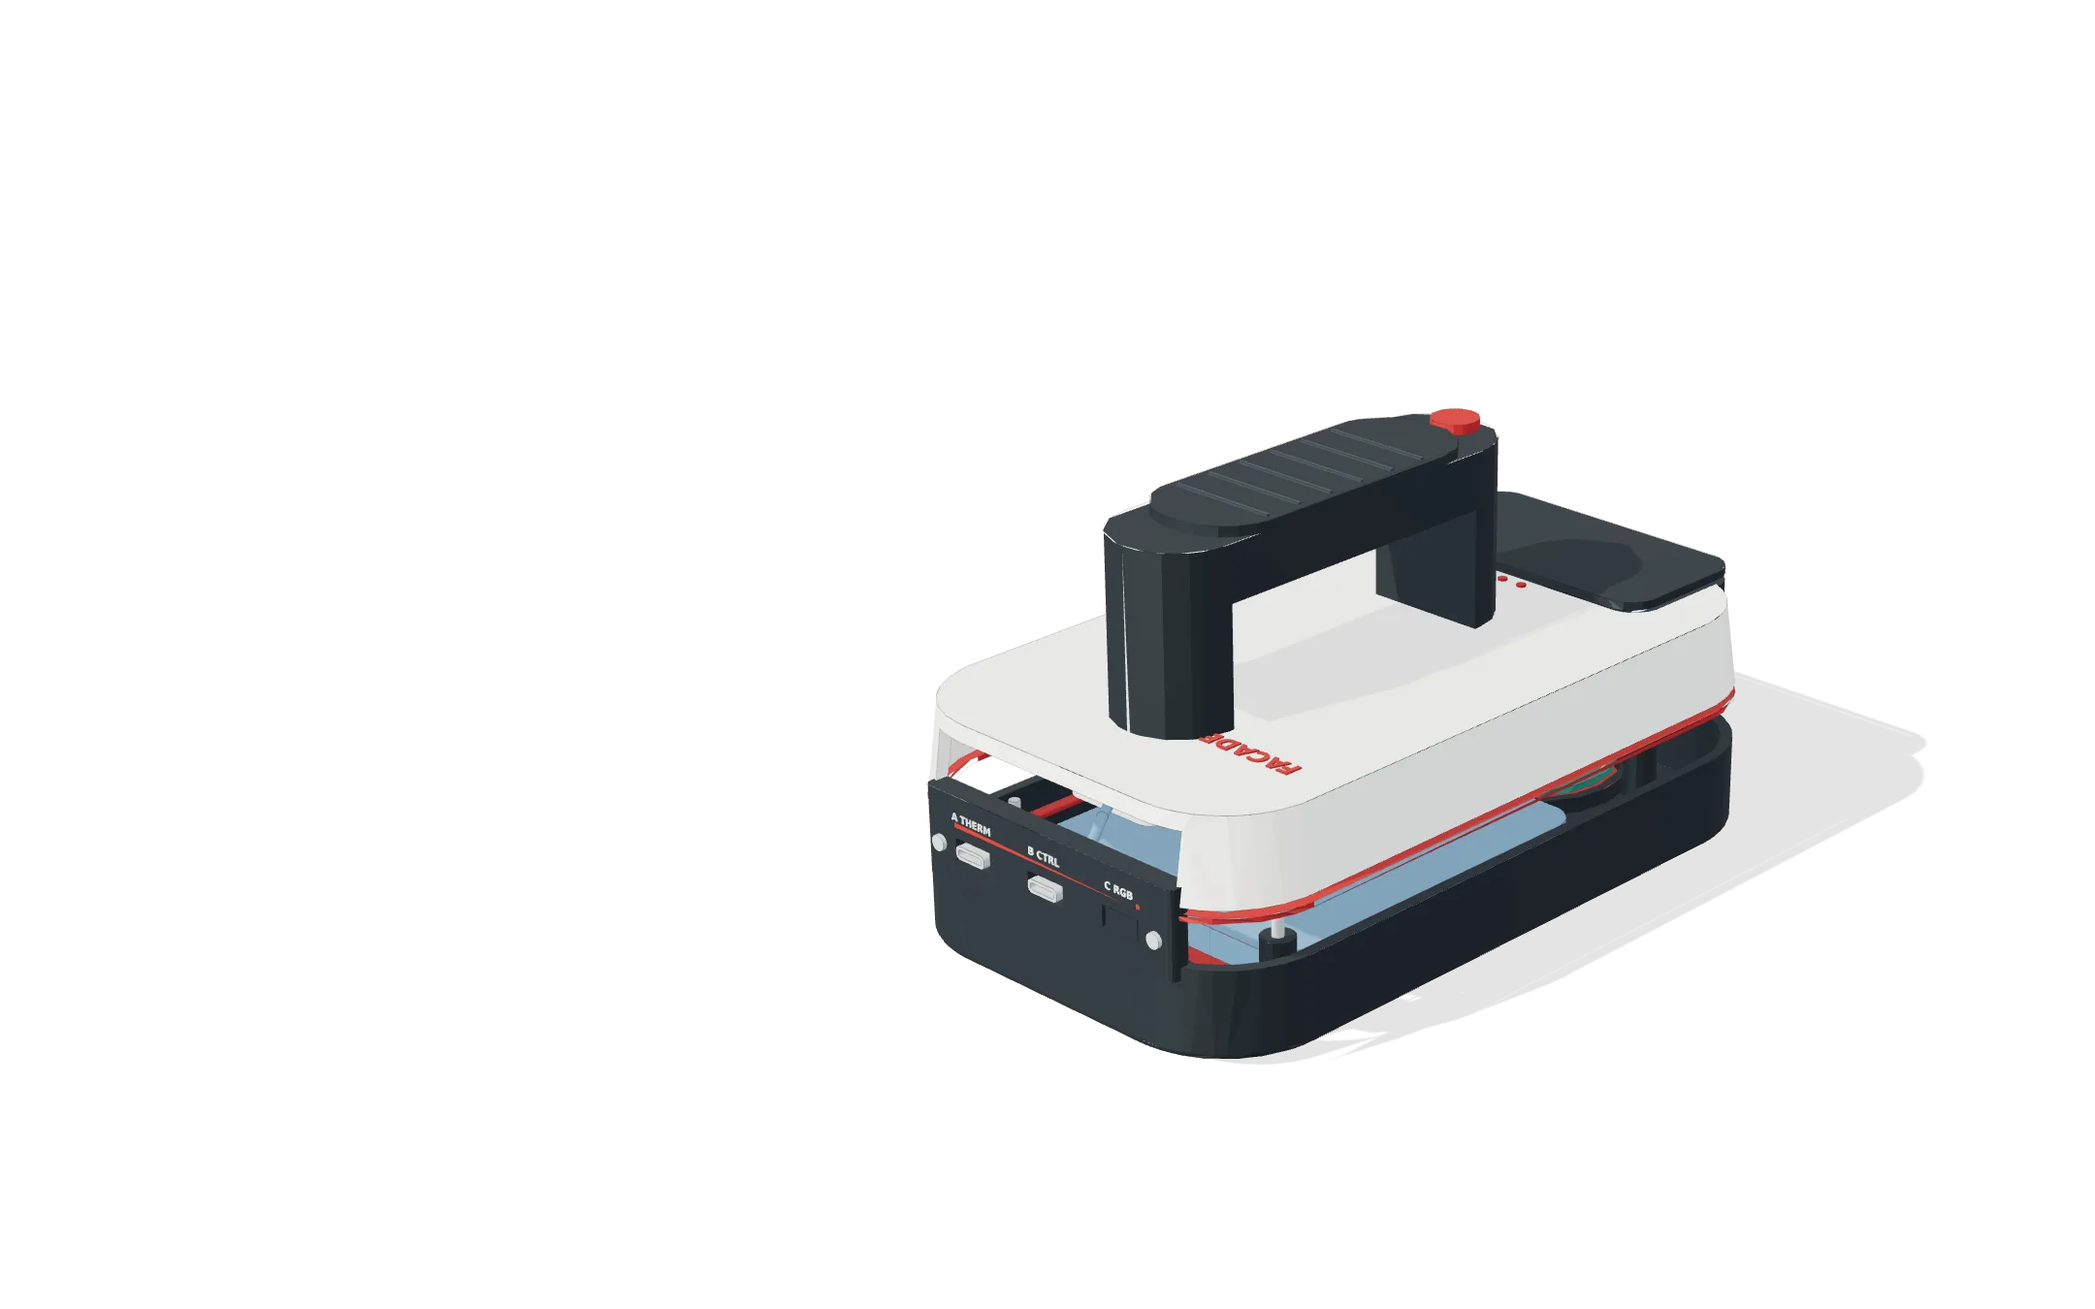
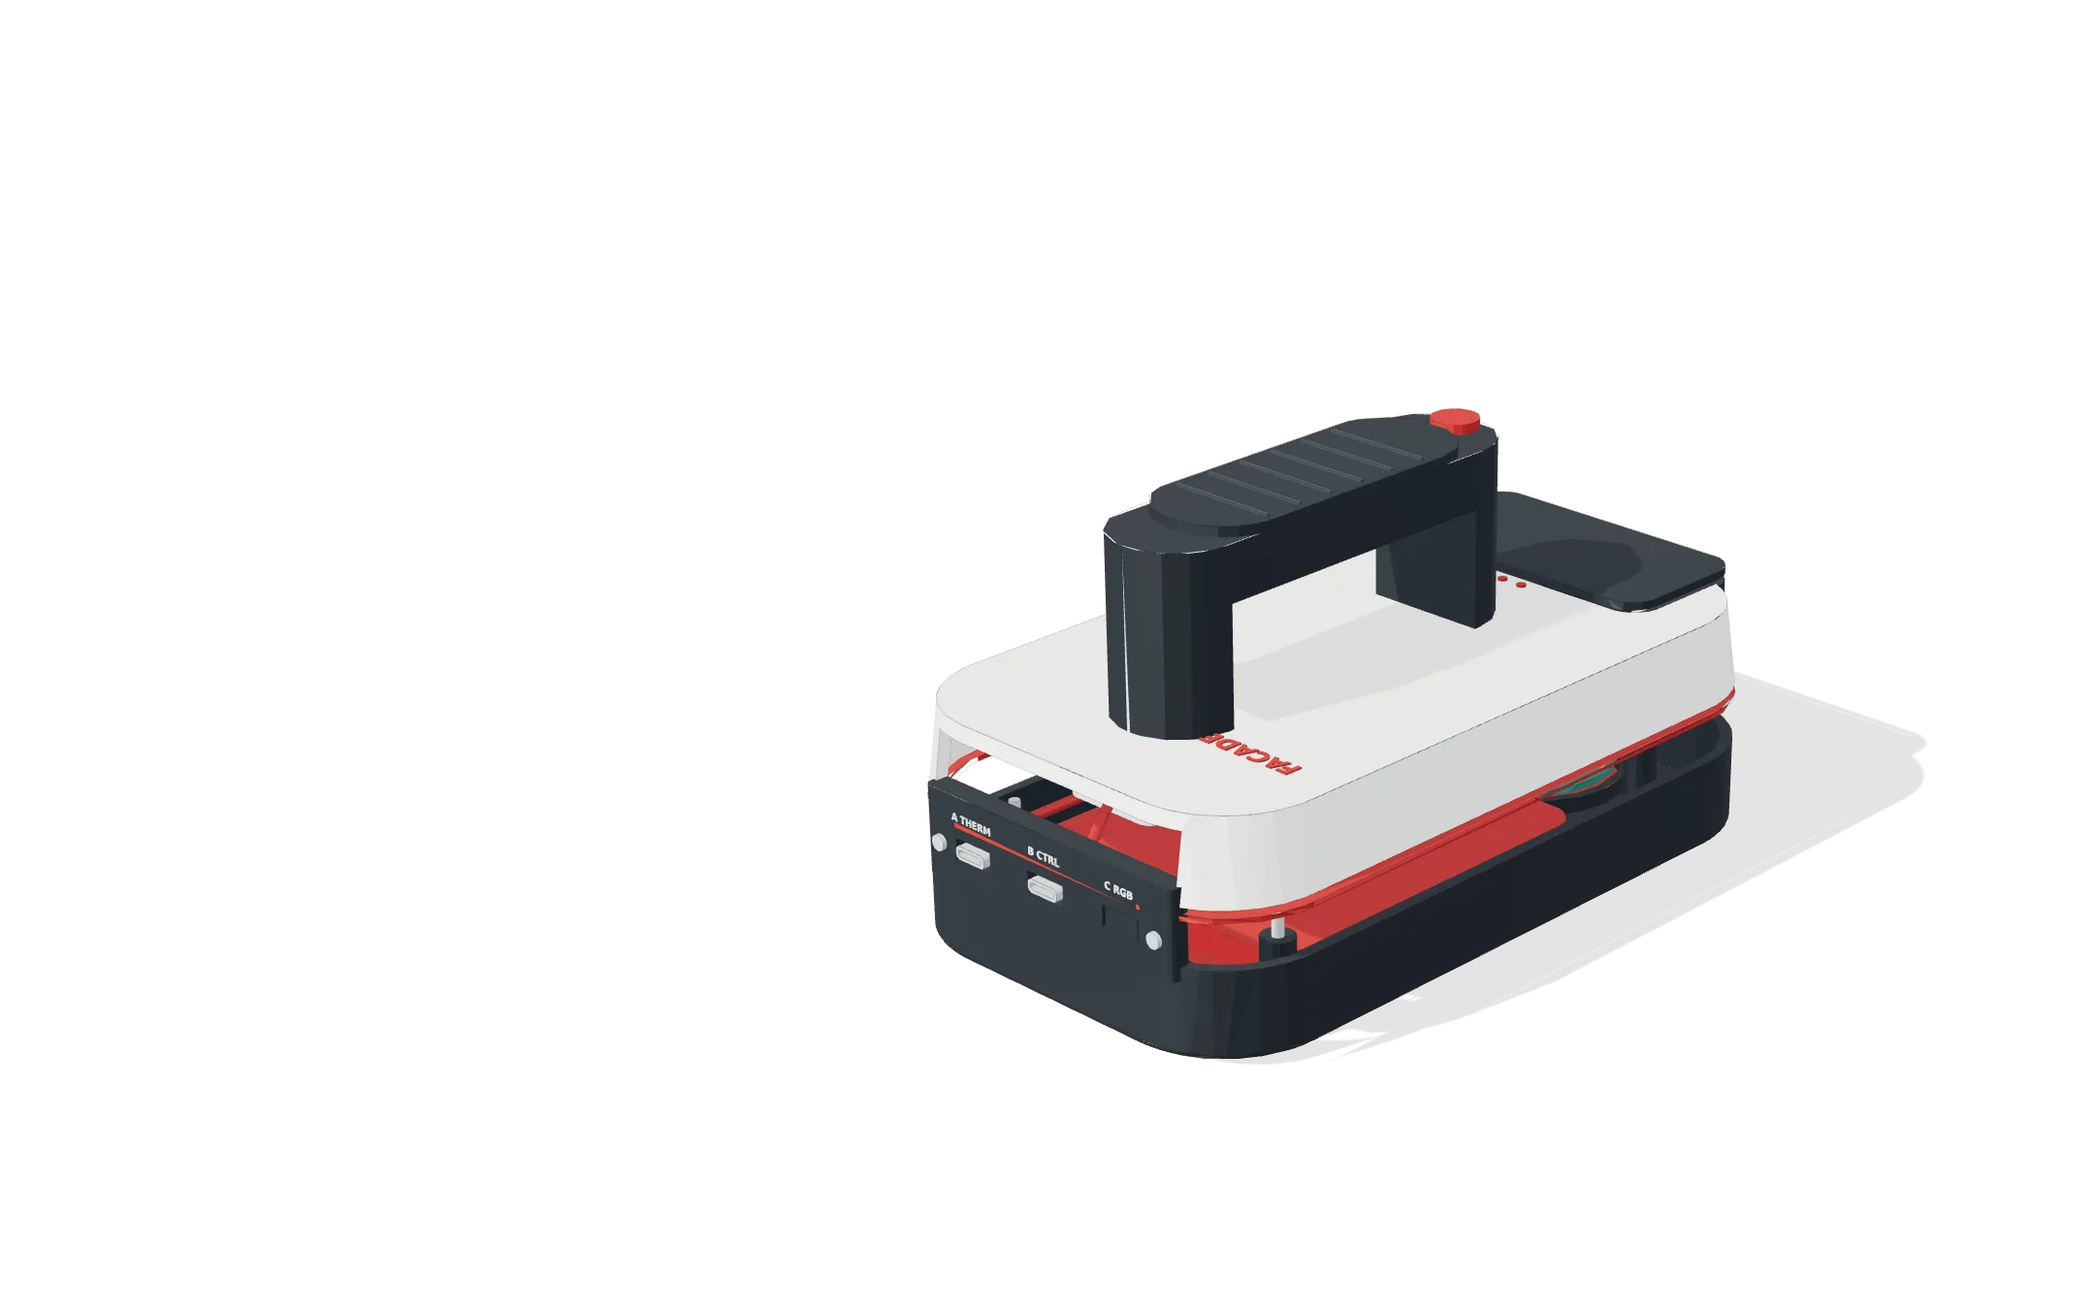
Red radar bay, plain red savings box, no custom cursor
The scanner's blue parts (radar bay, lens marker, cable routes) and the radar
label dot take the site's red, with the stills re-rendered. The savings box
fills with plain red instead of the wavy-line texture, which is deleted. The
custom square cursor and its labels are removed, so the normal pointer shows.

Changed region(s): [[0.5583, 0.5911, 0.7444, 0.7467], [0.4963, 0.6222, 0.5894, 0.6844]]

diff --git a/src/landing/landing-interactions.css b/src/landing/landing-interactions.css
@@ -60,23 +60,7 @@
 .is-scrolled .lab-header .reality-globe{opacity:0;transform:translateY(-6px) scale(.8)}
 .reality-tip{position:absolute;top:calc(100% + 4px);white-space:nowrap;font:var(--t-xxs)/1 var(--ui);background:var(--ink);color:var(--paper);padding:3px 5px;opacity:0;transform:scale(.4);transform-origin:50% 0;transition:opacity .25s,transform .5s var(--ease);pointer-events:none}
 .reality-control:hover .reality-tip,.reality-toggle:focus-visible~.reality-tip{opacity:1;transform:none}
-/* ---------- Cursor, progress, loader, veil ---------- */
-.lab-cursor{position:fixed;left:0;top:0;z-index:200;pointer-events:none;opacity:0;transition:opacity .3s;display:none}
-@media(pointer:fine){
-.lab-cursor{display:block}.motion-ready.has-pointer,.motion-ready.has-pointer *{cursor:none!important}
-}
-.has-pointer .lab-cursor{opacity:1}
-.cursor-box{position:absolute;width:13px;height:13px;margin:-6.5px 0 0 -6.5px;border:1px solid var(--ink);background:var(--paper);transition:width .4s var(--ease),height .4s var(--ease),margin .4s var(--ease),background-color .3s,border-radius .4s}
-.cursor-box::before,.cursor-box::after{content:'';position:absolute;left:50%;top:50%;width:7px;height:1px;margin:-.5px 0 0 -3.5px;background:var(--ink)}
-.cursor-box::after{transform:rotate(90deg)}
-.lab-cursor.is-active .cursor-box{width:26px;height:26px;margin:-13px 0 0 -13px;background:transparent}
-.cursor-label{position:absolute;left:16px;top:12px;white-space:nowrap;font:var(--t-xxs)/1 var(--ui);text-transform:uppercase;background:var(--ink);color:var(--paper);padding:3px 5px 2px;transform:scale(0);transform-origin:0 0;transition:transform .4s var(--ease)}
-.lab-cursor.has-label .cursor-label{transform:none}
-.reality-blueprint .cursor-box{border-radius:50%;background:transparent}
-.reality-blueprint .cursor-box::before{width:31px;margin-left:-15.5px}
-.reality-blueprint .cursor-box::after{width:31px;margin-left:-15.5px}
-.reality-cyber .cursor-box{border-color:var(--accent);background:transparent;box-shadow:0 0 0 3px var(--paper),0 0 0 4px rgba(89,231,202,.35)}
-.reality-cyber .cursor-box::before,.reality-cyber .cursor-box::after{background:var(--accent)}
+/* ---------- Progress, loader, veil ---------- */
 .reading-progress{position:fixed;left:0;bottom:0;z-index:45;width:100%;height:2px;background:var(--ink);transform:scaleX(0);transform-origin:0 0;pointer-events:none}
 .intro-loader{position:fixed;inset:0;z-index:160;background:#fff;color:#000;--paper:#fff;--line:rgba(0,0,0,.075);--cross:rgba(0,0,0,.42);display:grid;place-items:center;transition:opacity .75s var(--ease),visibility 0s .75s}
 .intro-loader.is-leaving{opacity:0;visibility:hidden}
@@ -360,9 +344,6 @@
 .lab-site .exhibit-drawer{position:fixed;inset:0 0 0 auto;margin:0;width:min(76vw,1240px);max-width:none;height:100vh;height:100dvh;max-height:none;padding:0;border:0;background:transparent;color:#000;overflow:hidden;cursor:auto}
 .lab-site .exhibit-drawer *{cursor:auto}
 .lab-site .exhibit-drawer button{cursor:pointer}
-.motion-ready.has-pointer .exhibit-drawer,.motion-ready.has-pointer .exhibit-drawer *{cursor:auto!important}
-.motion-ready.has-pointer .exhibit-drawer button{cursor:pointer!important}
-html.drawer-open .lab-cursor{opacity:0}
 .exhibit-drawer::backdrop{background:rgba(255,255,255,.22);backdrop-filter:blur(7px);animation:fade .5s var(--ease) both}
 .reality-cyber .exhibit-drawer::backdrop{background:rgba(16,18,18,.45)}
 .exhibit-drawer.is-closing::backdrop{animation:fade-out .42s var(--ease-in) both}
@@ -514,7 +495,7 @@ html.drawer-open{overflow:hidden}
 }
 /* ---------- Reduced motion ---------- */
 @media(prefers-reduced-motion:reduce){
-.lab-site *,.lab-site *::before,.lab-site *::after{animation:none!important;transition:none!important}.lab-site .w,.lab-site .exhibit,.lab-site .win{opacity:1!important;scale:none!important}.lab-site .w{transform:none!important}.lab-site .outline-phrase{clip-path:none!important}.lab-site .lab-connectors path,.lab-site .tail path{stroke-dashoffset:0!important}.lab-site .node{opacity:1!important;transform:none!important}.lab-cursor,.reality-veil,.intro-loader{display:none!important}
+.lab-site *,.lab-site *::before,.lab-site *::after{animation:none!important;transition:none!important}.lab-site .w,.lab-site .exhibit,.lab-site .win{opacity:1!important;scale:none!important}.lab-site .w{transform:none!important}.lab-site .outline-phrase{clip-path:none!important}.lab-site .lab-connectors path,.lab-site .tail path{stroke-dashoffset:0!important}.lab-site .node{opacity:1!important;transform:none!important}.reality-veil,.intro-loader{display:none!important}
 }
 /* ---------- Second screen: the field kit ---------- */
 .kit-section{position:relative;z-index:1;height:140vh;height:140svh}
@@ -610,16 +591,14 @@ html:lang(ar) .lab-site :is(h1,h2,h3,p,li,summary,small){direction:rtl}
 .lab-site .cost-scenario[aria-pressed='true']{border-color:var(--ink);box-shadow:inset 0 0 0 1px var(--ink)}
 .lab-site .cost-scenario.scenario-savings[aria-pressed='true']{border-color:var(--red);box-shadow:inset 0 0 0 1px var(--red)}
 .lab-site .cost-scenario.scenario-savings[aria-pressed='true'] .amount{color:var(--red)}
-/* The saving: red, with an original screen-print texture of wavy line bundles when it is in view. */
+/* The saving: outlined in red, then filled with plain red in the savings view. */
 .cost-savings{position:relative;isolation:isolate;overflow:hidden;container-type:inline-size;display:grid;gap:10px;padding:18px 20px 20px;border:1px solid var(--red);transition:background-color .7s var(--ease),color .7s var(--ease)}
-.cost-savings::before{content:'';position:absolute;inset:0;z-index:-1;background:url('/texture/print-waves.webp') center/cover;opacity:0;transition:opacity .9s var(--ease)}
 .cost-tag{justify-self:start;padding:6px 10px 5px;border:1px solid currentColor;border-radius:52px;font:400 10px/1 var(--ui);text-transform:uppercase}
 .cost-big{margin:0}
 .cost-big .amount{display:block;white-space:nowrap;font:400 min(clamp(60px,6.4vw,104px),24cqi)/.86 var(--haas);letter-spacing:-.05em;color:var(--red);transition:color .7s var(--ease)}
 .cost-line{margin:0;font:400 15px/1.35 var(--haas)}
 .cost-net{margin:0;font:400 10.5px/1.4 var(--ui);text-transform:uppercase;opacity:.8}
 .mode-savings .cost-savings{background:var(--red);color:#fff}
-.mode-savings .cost-savings::before{opacity:.3}
 .mode-savings .cost-big .amount{color:#fff}
 .cost-source{margin:0;font:400 10.5px/1.45 var(--ui);color:var(--muted)}
 .cost-source a{color:var(--ink);text-decoration:underline;text-underline-offset:3px;white-space:nowrap}
@@ -636,4 +615,4 @@ html:lang(ar) .lab-site :is(h1,h2,h3,p,li,summary,small){direction:rtl}
  .cost-big .amount{font-size:min(72px,24cqi)}
  .cost-scenario .amount{font-size:22px}
 }
-@media(prefers-reduced-motion:reduce){.cost-savings,.cost-savings::before,.cost-big .amount{transition:none}}
+@media(prefers-reduced-motion:reduce){.cost-savings,.cost-big .amount{transition:none}}

diff --git a/src/landing/useLandingMotion.ts b/src/landing/useLandingMotion.ts
@@ -5,7 +5,7 @@ import {useEffect,useRef,type RefObject} from 'react';
 export const motionBus:{lenis:{stop():void;start():void}|null}={lenis:null};
 const glyphs='WITHN*#/%^$@+';
 
-/** Keep scroll and pointer updates outside React's render cycle. */
+/** Keep scroll updates outside React's render cycle. */
 export function useLandingMotion(root:RefObject<HTMLDivElement|null>,{introDone,reality}:{introDone:boolean;reality:number}){
  const replay=useRef<()=>void>(()=>{});
  useEffect(()=>{
@@ -46,19 +46,6 @@ export function useLandingMotion(root:RefObject<HTMLDivElement|null>,{introDone,
      if(scrolled!==y>60){scrolled=y>60;el.classList.toggle('is-scrolled',scrolled)}
     });
    };
-   // The cursor moves by transform on its own node so pointer motion never restyles the page.
-   const cursor=el.querySelector<HTMLElement>('.lab-cursor'),label=cursor?.querySelector<HTMLElement>('.cursor-label');
-   const pointer=(event:PointerEvent)=>{
-    if(event.pointerType!=='mouse'||!cursor)return;
-    cursor.style.transform=`translate3d(${event.clientX}px,${event.clientY}px,0)`;
-    if(!el.classList.contains('has-pointer'))el.classList.add('has-pointer');
-   };
-   const leave=()=>el.classList.remove('has-pointer');
-   const over=(event:Event)=>{
-    const target=event.target as Element;
-    if(!cursor)return;const hint=target.closest<HTMLElement>('[data-cursor]')?.dataset.cursor??'';
-    cursor.classList.toggle('is-active',!!target.closest('a,button,summary,[tabindex="0"],canvas'));cursor.classList.toggle('has-label',!!hint);if(label&&label.textContent!==hint)label.textContent=hint;
-   };
    // Inspection tiles: squares that light up over the scanner as the pointer crosses it.
    const model=el.querySelector<HTMLElement>('.lab-model'),tiles=el.querySelector<HTMLElement>('.model-tiles');let lastTile=0;
    const tile=(event:PointerEvent)=>{
@@ -68,8 +55,8 @@ export function useLandingMotion(root:RefObject<HTMLDivElement|null>,{introDone,
     const square=document.createElement('i');square.className='model-tile';square.style.cssText=`left:${x}px;top:${y}px;width:${size}px;height:${size}px`;
     square.addEventListener('animationend',()=>square.remove());tiles.append(square);while(tiles.children.length>7)tiles.firstElementChild?.remove();
    };
-   el.addEventListener('pointermove',pointer);el.addEventListener('pointerleave',leave);el.addEventListener('pointerover',over);el.addEventListener('focusin',over);model?.addEventListener('pointermove',tile);window.addEventListener('scroll',scroll,{passive:true});scroll();
-   teardown=()=>{observer.disconnect();away.disconnect();el.querySelectorAll('.is-away').forEach(target=>target.classList.remove('is-away'));cancelAnimationFrame(frame);timers.forEach((id,target)=>{clearInterval(id);target.textContent=target.dataset.scramble??''});el.removeEventListener('pointermove',pointer);el.removeEventListener('pointerleave',leave);el.removeEventListener('pointerover',over);el.removeEventListener('focusin',over);model?.removeEventListener('pointermove',tile);window.removeEventListener('scroll',scroll);el.classList.remove('motion-ready','has-pointer');replay.current=()=>{}};
+   model?.addEventListener('pointermove',tile);window.addEventListener('scroll',scroll,{passive:true});scroll();
+   teardown=()=>{observer.disconnect();away.disconnect();el.querySelectorAll('.is-away').forEach(target=>target.classList.remove('is-away'));cancelAnimationFrame(frame);timers.forEach((id,target)=>{clearInterval(id);target.textContent=target.dataset.scramble??''});model?.removeEventListener('pointermove',tile);window.removeEventListener('scroll',scroll);el.classList.remove('motion-ready');replay.current=()=>{}};
   };
   setup();media.addEventListener('change',setup);return()=>{teardown();media.removeEventListener('change',setup)};
  },[root]);

diff --git a/src/landing/WallViewer.tsx b/src/landing/WallViewer.tsx
@@ -18,10 +18,10 @@ const diagrams:Record<number,Diagram>={
 const noEdges=new Set(['Foil','Insulation','Armor','Cat6','Primer','DrywallPaper']);
 /** Surface variation sampled in object space (triplanar), so no UVs are needed. [map, scale, albedo, roughness] */
 const surfaces:Record<string,['noise'|'spangle',number,number,number]>={ConcreteWall:['noise',2.4,.45,.25],ConcreteFloor:['noise',1.6,.3,.35],Galvanized:['spangle',7,.24,.55],SteelStud:['spangle',10,.09,.4],EMT:['spangle',14,.12,.35],Foil:['noise',12,.12,.6],Insulation:['noise',7,.14,0],CastIron:['noise',9,.35,.35],Copper:['noise',5,.18,.4],Brass:['noise',8,.12,.3],PanelPaint:['noise',3,.05,.25],Armor:['noise',22,.15,.3]};
-/** The scanner's accent parts (seam band, scan button, status lights, logo, windows) come out of its CAD export in teal;
- * here they take the page's signal red (#c13833), set a shade darker so that under the scene's lighting the lit faces
- * render at that red rather than lighter. */
-const ACCENT_SOURCE='#178c86',ACCENT='#a82c28';
+/** The scanner's accent parts come out of its CAD export in teal (seam band, scan button, status lights, logo, windows)
+ * and blue (radar bay, lens marker, controller cable routes); here they all take the page's signal red (#c13833), set a
+ * shade darker so that under the scene's lighting the lit faces render at that red rather than lighter. */
+const ACCENT_SOURCES=new Set(['#178c86','#688ca8']),ACCENT='#a82c28';
 /** What each model needs: where it loads from, its part labels and staging, and how scrolling drives the explode. */
 type Label=[layer:string,text:string,system:string,anchor?:string,dot?:string];
 /** Models rest assembled; scroll or drag separates them. With `stay`, a drag leaves the model exploded until Enter assembles it. */
@@ -171,7 +171,7 @@ export default function ExplodedViewer({model:which='wall',reality,focus,scroll,
    model.traverse(obj=>{if(!(obj instanceof T.Mesh))return;let sys='framing';for(let n:T.Object3D|null=obj;n;n=n.parent)if(n.userData.system||n.userData.partId){sys=n.userData.system??n.userData.partId;break}
     const source=obj.material as T.MeshStandardMaterial,name=source.name||'SteelStud',id=`${sys}|${name}`,sheet=sys==='drywall';obj.userData.system=sys;
     if(sheet){obj.geometry.computeBoundingBox();const b=obj.geometry.boundingBox!,lines=new T.LineSegments(sheetLines(b),sheetLineMat);lines.renderOrder=4;obj.add(lines);addFade(sheetLineMat,b.min.x,b.max.x,.6,1)}
-    if(!reals.has(id)){const real=sheet?new T.MeshStandardMaterial({name,color:'#f7f6f2',roughness:.92,metalness:0,transparent:true,depthWrite:false}):source.clone();if(name===ACCENT_SOURCE)real.color.set(ACCENT);
+    if(!reals.has(id)){const real=sheet?new T.MeshStandardMaterial({name,color:'#f7f6f2',roughness:.92,metalness:0,transparent:true,depthWrite:false}):source.clone();if(ACCENT_SOURCES.has(name))real.color.set(ACCENT);
      // Bright, mirror-smooth metals (the kit's aluminum) read better as brushed: rougher, with more environment light.
      if(!sheet&&real.metalness>.8&&real.color.getHSL({h:0,s:0,l:0}).l>.3)real.roughness=Math.max(real.roughness,.32);if(sheet){const b=obj.geometry.boundingBox!;sheetFade=addFade(real,b.min.x,b.max.x,.035,.94)}real.envMapIntensity=name==='Foil'?1.7:real.metalness>.5?(config.merge?1.55:1.25):.9;const surf=surfaces[name];if(surf)addSurface(real,textures[surf[0]],surf);reals.set(id,{mat:real,system:sys,name});
      const ghost=sys==='drywall';diagramMats.set(id,{mat:new T.MeshStandardMaterial({roughness:.8,metalness:0,transparent:ghost,depthWrite:!ghost,side:ghost?T.DoubleSide:T.FrontSide,polygonOffset:true,polygonOffsetFactor:1,polygonOffsetUnits:1}),system:sys,name})}

diff --git a/src/landing/hardware-parts.ts b/src/landing/hardware-parts.ts
@@ -12,7 +12,7 @@ export const hardwareParts:HardwarePart[]=[
  {id:'thermal',number:'03',name:'Thermal camera',role:'FLIR Lepton 3.5 on PureThermal 3',color:'#d69c50',anchor:'18_Lepton_3_5_envelope',detail:'A Lepton 3.5 envelope on a PureThermal 3 board, in a cradle shaped to the vendor model, looking out through the nose. Thermal images show surface temperature only.',source:'https://groupgets.com/products/purethermal-3'},
  {id:'electronics',number:'04',name:'Adafruit Feather RP2040',role:'Controller + sensor interface',color:'#277a6b',anchor:'14_Feather_RP2040_PCB_outline',detail:'Feather RP2040 on a model-specific carrier, beside space reserved for a custom inductance-to-digital (LDC) interface for the coil. Firmware and the interface board are not built.',source:'https://www.adafruit.com/product/4884'},
  {id:'cables',number:'05',name:'Rear USB panel',role:'Three USB-C ports',color:'#c13833',anchor:'24_replaceable_rear_USB_panel',detail:'A replaceable rear panel: port A for the thermal board, port B for the controller, and a blanked port C for the optional RGB camera. Internal cable routes are indicative.'},
- {id:'radar',number:'06',name:'Radar bay (reserved)',role:'Space only, no module selected',color:'#688ca8',anchor:'09_RADAR_RESERVATION_ONLY',detail:'A removable RF window and an adapter frame hold space for a radar module. No module has been chosen, so its size, frequency and sensing depth are unknown.'},
+ {id:'radar',number:'06',name:'Radar bay (reserved)',role:'Space only, no module selected',color:'#c13833',anchor:'09_RADAR_RESERVATION_ONLY',detail:'A removable RF window and an adapter frame hold space for a radar module. No module has been chosen, so its size, frequency and sensing depth are unknown.'},
  {id:'metal',number:'07',name:'Metal-sensing coil',role:'Coil window + carrier',color:'#c09c5c',anchor:'11_coil_carrier',detail:'A coil carrier behind its own window on the underside. The traces shown are illustrative and the coil envelope is still to be designed; range and accuracy are unmeasured.'},
  {id:'tracking',number:'08',name:'Measuring roller',role:'Distance along the wall',color:'#4b4c48',anchor:'22_measuring_roller',detail:'An 18 mm roller on an axle with a magnet at one end, and space allowed for an AS5600 magnetic angle sensor to count its turns. Slip and calibration are unverified.'},
  {id:'fasteners',number:'09',name:'Underside screws',role:'Four M3 screws',color:'#8b9196',anchor:'25_underside_M3_43_-66',detail:'Four M3 screws close the shell from the underside.'},

diff --git a/src/home.tsx b/src/home.tsx
@@ -74,7 +74,7 @@ function Sections(){
  const footer=document.getElementById('site-footer');
  return <LangProvider value={language}>
   <GridOverlay/>
-  <div className="lab-cursor" aria-hidden="true"><i className="cursor-box"/><span className="cursor-label"/></div><div className="reading-progress" aria-hidden="true"/>
+  <div className="reading-progress" aria-hidden="true"/>
   <WallSection/>
   <KitSection/>
   <CostSection/>
